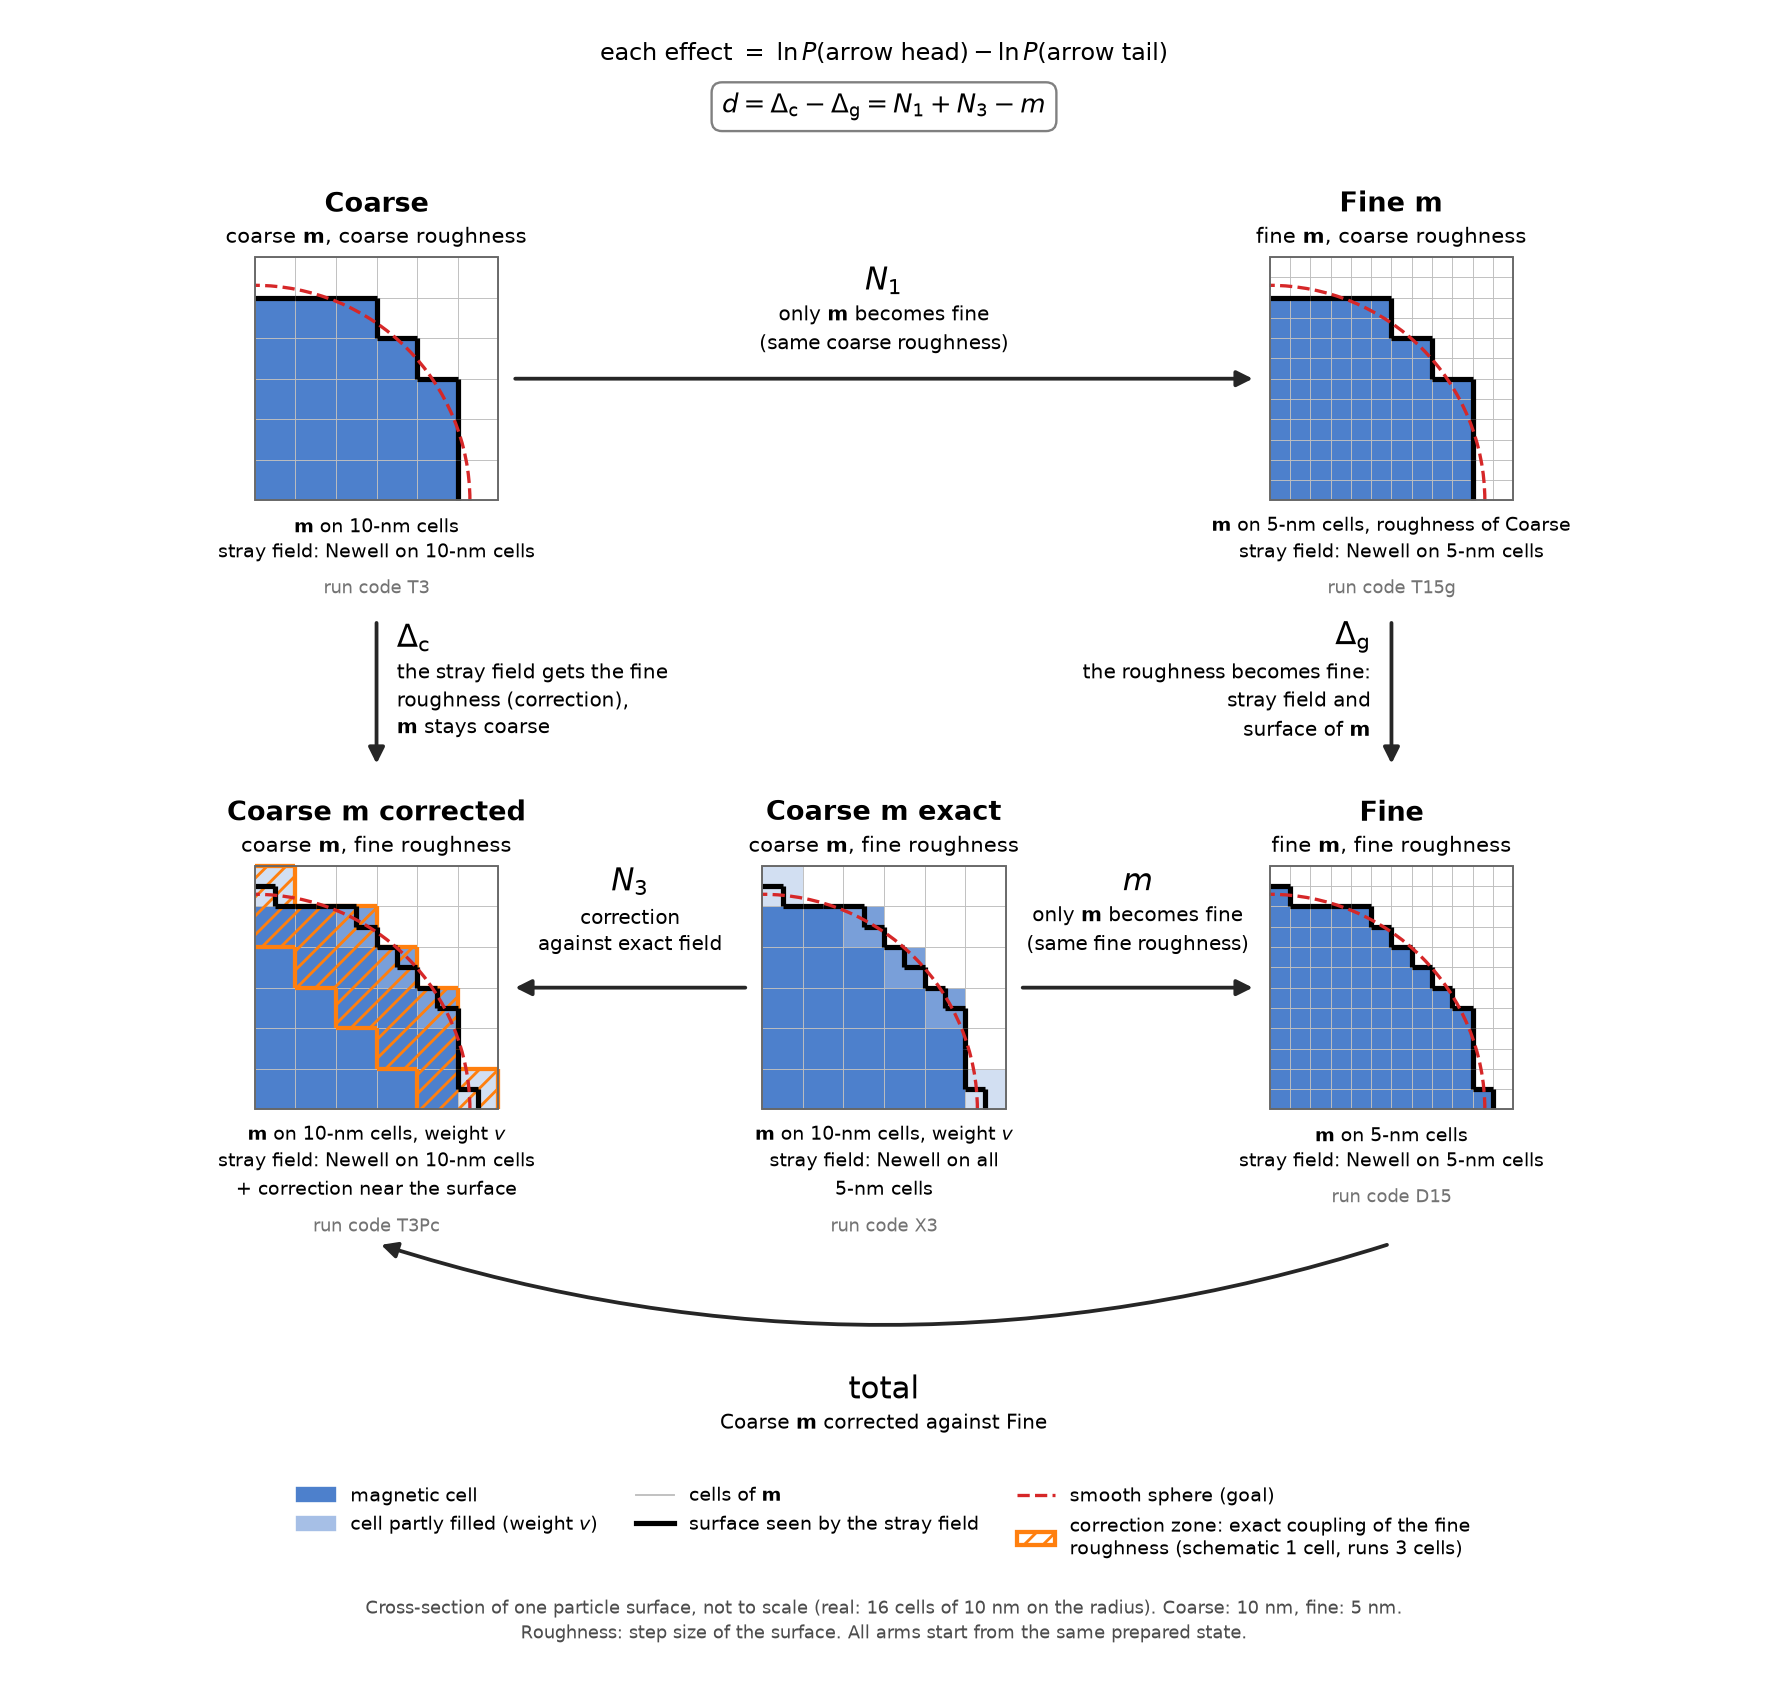
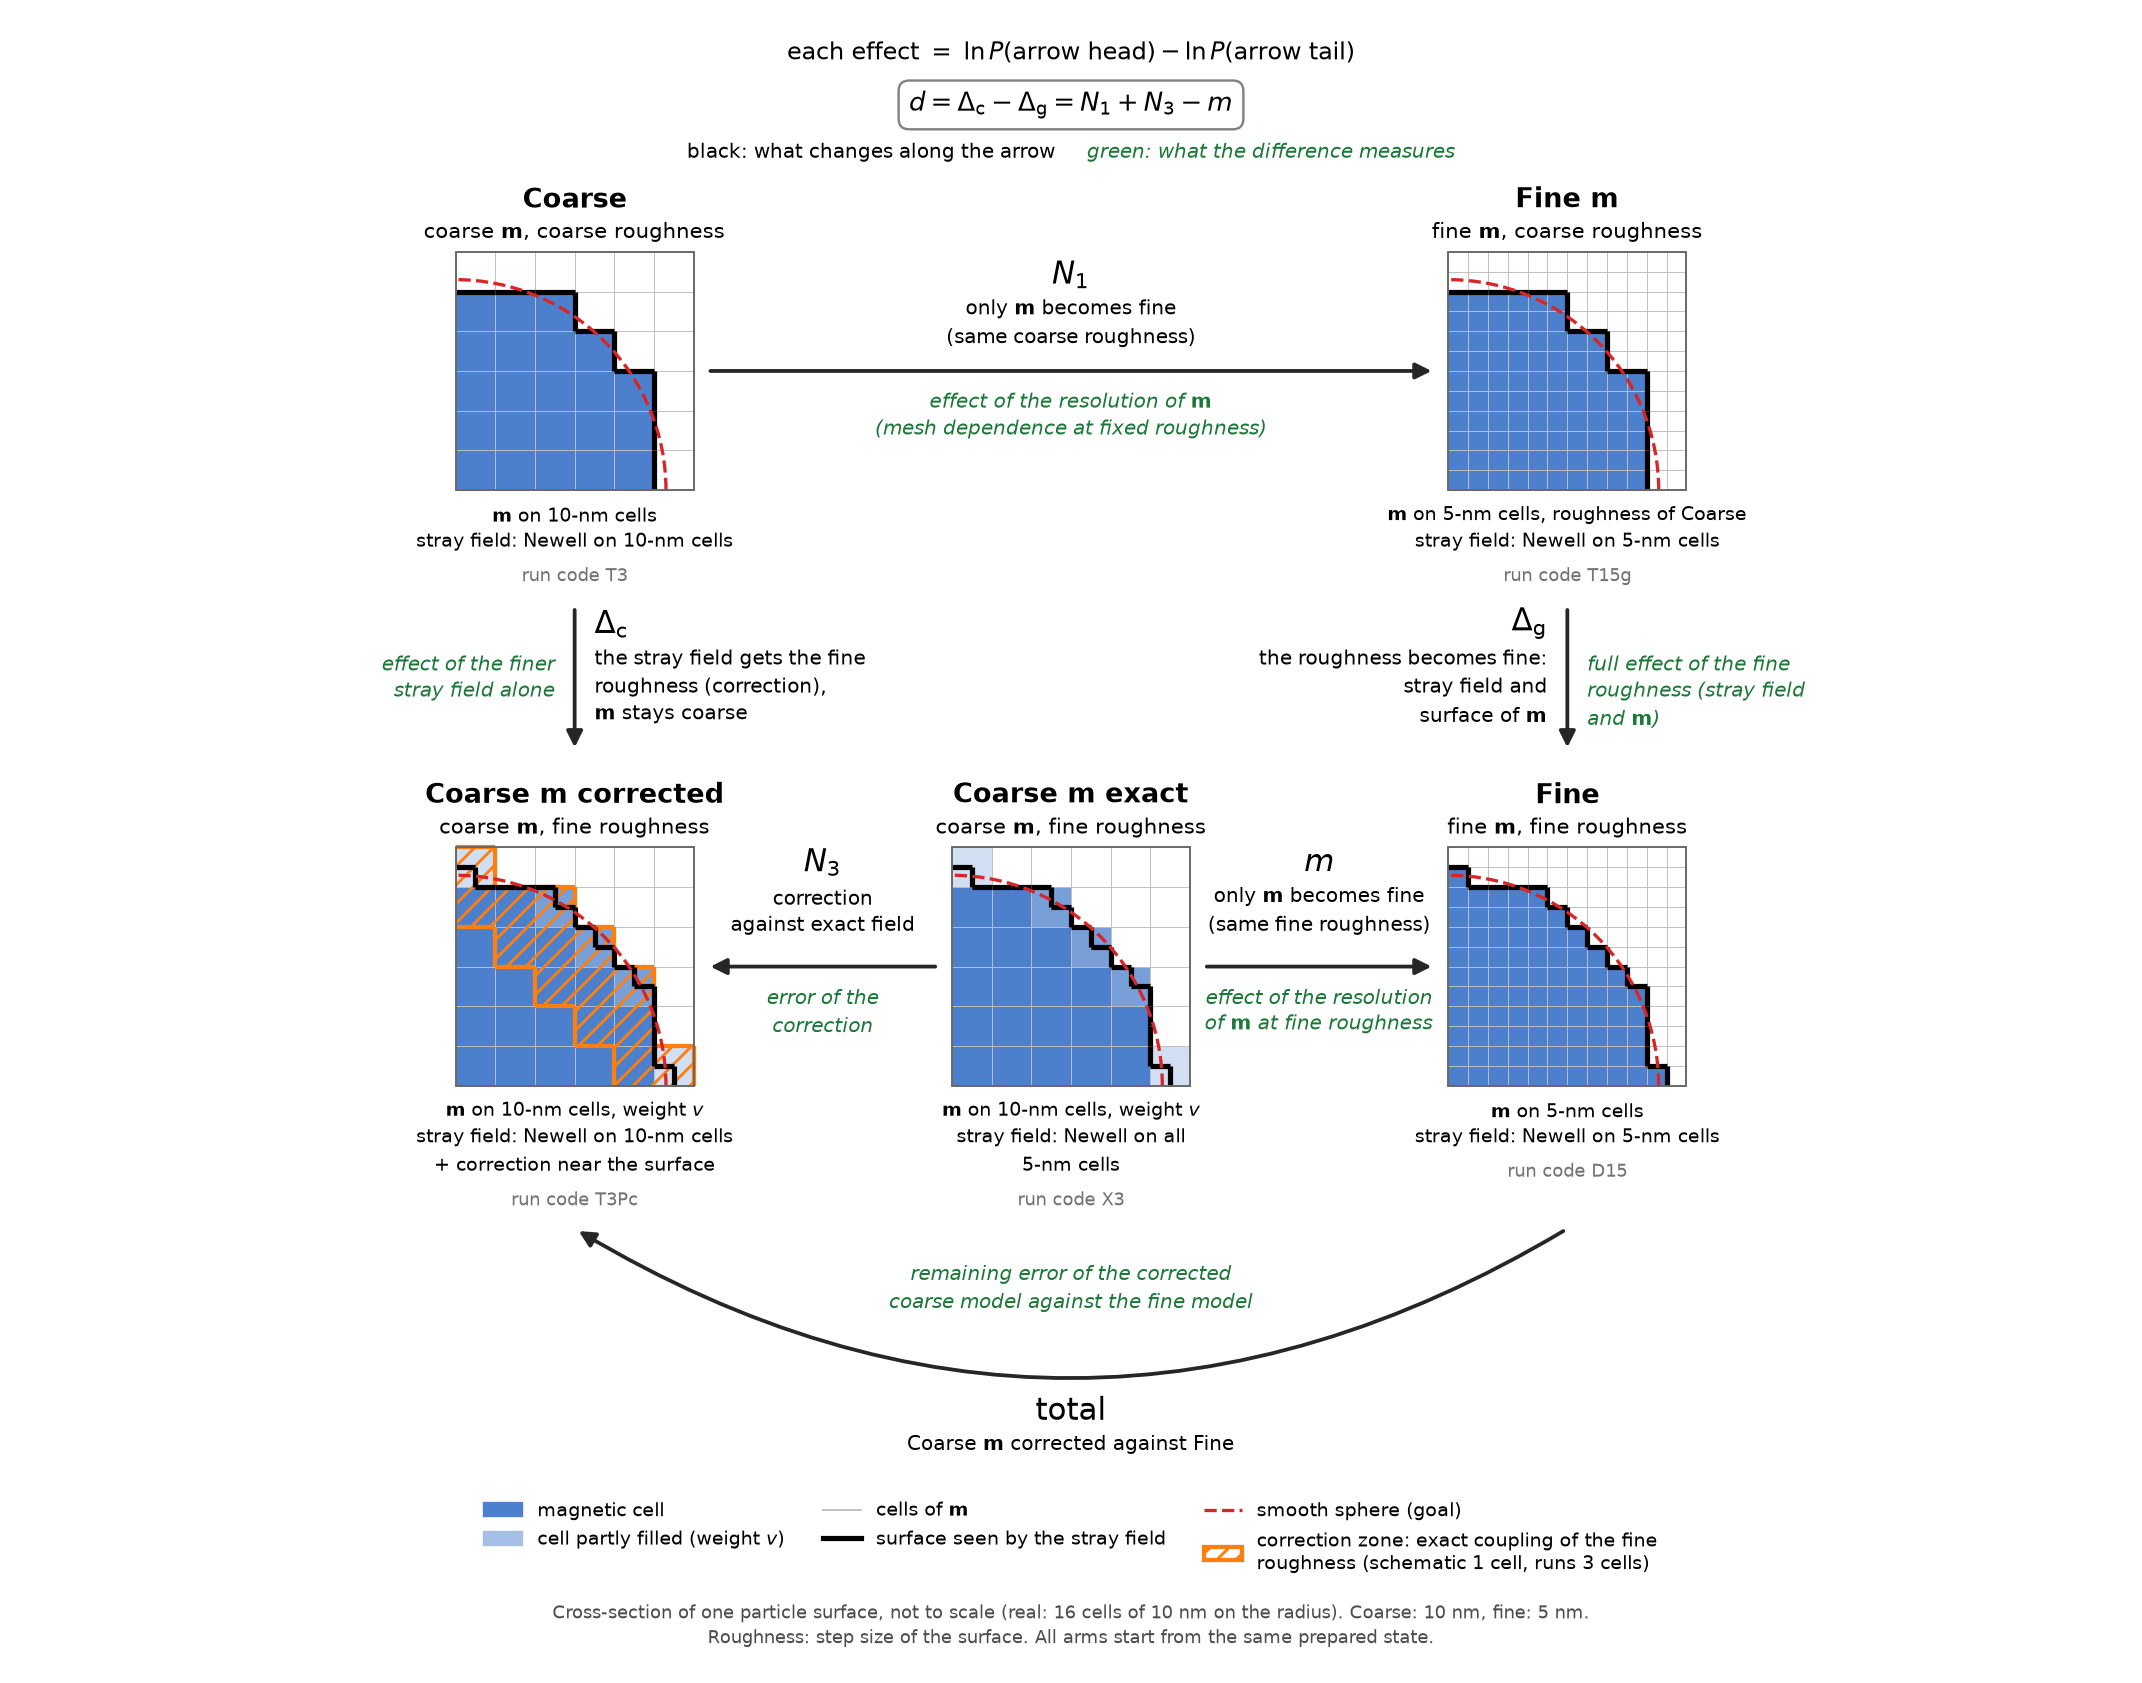
staircase: schematic, each arrow also tells what the difference measures (PROTOKOLL 3.28)

diff --git a/studies/staircase_correction/plot_scheme.py b/studies/staircase_correction/plot_scheme.py
@@ -25,6 +25,7 @@ R = 5.3          # sphere radius in cells of 10 nm (schematic)
 NC = 6           # cells of 10 nm on each side of a panel
 BLUE = np.array([0.30, 0.50, 0.80])
 ORANGE = "tab:orange"
+GREEN = "#1b7837"  # what an effect measures
 W = 1            # width of the correction zone in the schematic (runs: window p = 3 cells)
 M = r"$\mathbf{m}$"
 
@@ -95,19 +96,21 @@ def panel(ax, x0, y0, title, sub, text, code, m_h, fill, field_h, zone=False):
             fontsize=7.5, color="0.45")
 
 
-def arrow(ax, p, q, sym, label, lx, ly, ha="center", rad=0.0):
-    """Arrow from p to q; the effect symbol at (lx, ly), its meaning below it."""
+def arrow(ax, p, q, sym, label, lx, ly, meas, mx, my, ha="center", mha="center", rad=0.0):
+    """Arrow from p to q; the effect symbol at (lx, ly) with what changes below it; on the other side of the arrow
+    (mx, my) what the difference measures."""
     ax.add_patch(FancyArrowPatch(p, q, arrowstyle="-|>", mutation_scale=14, lw=1.6, color="0.15",
                                  connectionstyle="arc3,rad=%g" % rad, zorder=7))
     ax.text(lx, ly, sym, ha=ha, va="bottom", fontsize=13, zorder=8)
     ax.text(lx, ly - 0.1, label, ha=ha, va="top", fontsize=8.5, linespacing=1.4, zorder=8)
+    ax.text(mx, my, meas, ha=mha, va="top", fontsize=8.5, linespacing=1.4, color=GREEN, style="italic", zorder=8)
 
 
 def main():
     ap = argparse.ArgumentParser()
     ap.add_argument("--plot", required=True)
     a = ap.parse_args()
-    fig, ax = plt.subplots(figsize=(10.4, 9.9))
+    fig, ax = plt.subplots(figsize=(12.6, 9.9))
     X, Y = (0, 12.5, 25), (0, 15)                                # columns and rows of the panels
     xc = X[1] + NC / 2
     panel(ax, X[0], Y[1], "Coarse", "coarse " + M + ", coarse roughness",
@@ -124,19 +127,25 @@ def main():
           M + " on 5-nm cells\nstray field: Newell on 5-nm cells", "D15", 0.5, "voxel 0.5", 0.5)
 
     arrow(ax, (X[0] + 6.3, Y[1] + 3), (X[2] - 0.3, Y[1] + 3),
-          r"$N_1$", "only " + M + " becomes fine\n(same coarse roughness)", xc, Y[1] + 5.0)
+          r"$N_1$", "only " + M + " becomes fine\n(same coarse roughness)", xc, Y[1] + 5.0,
+          "effect of the resolution of " + M + "\n(mesh dependence at fixed roughness)", xc, Y[1] + 2.6)
     arrow(ax, (X[0] + 3, Y[1] - 2.9), (X[0] + 3, Y[0] + 8.4),
           r"$\Delta_\mathrm{c}$", "the stray field gets the fine\nroughness (correction),\n" + M + " stays coarse",
-          X[0] + 3.5, Y[0] + 11.2, ha="left")
+          X[0] + 3.5, Y[0] + 11.2, "effect of the finer\nstray field alone", X[0] + 2.5, Y[0] + 11.0,
+          ha="left", mha="right")
     arrow(ax, (X[2] + 3, Y[1] - 2.9), (X[2] + 3, Y[0] + 8.4),
           r"$\Delta_\mathrm{g}$", "the roughness becomes fine:\nstray field and\nsurface of " + M,
-          X[2] + 2.5, Y[0] + 11.2, ha="right")
+          X[2] + 2.5, Y[0] + 11.2, "full effect of the fine\nroughness (stray field\nand " + M + ")",
+          X[2] + 3.5, Y[0] + 11.0, ha="right", mha="left")
     arrow(ax, (X[1] - 0.3, Y[0] + 3), (X[0] + 6.3, Y[0] + 3),
-          r"$N_3$", "correction\nagainst exact field", (X[0] + 6 + X[1]) / 2, Y[0] + 5.2)
+          r"$N_3$", "correction\nagainst exact field", (X[0] + 6 + X[1]) / 2, Y[0] + 5.2,
+          "error of the\ncorrection", (X[0] + 6 + X[1]) / 2, Y[0] + 2.6)
     arrow(ax, (X[1] + 6.3, Y[0] + 3), (X[2] - 0.3, Y[0] + 3),
-          r"$m$", "only " + M + " becomes fine\n(same fine roughness)", (X[1] + 6 + X[2]) / 2, Y[0] + 5.2)
-    arrow(ax, (X[2] + 3, Y[0] - 3.3), (X[0] + 3, Y[0] - 3.3),
-          "total", "Coarse " + M + " corrected against Fine", xc, Y[0] - 7.3, rad=-0.16)
+          r"$m$", "only " + M + " becomes fine\n(same fine roughness)", (X[1] + 6 + X[2]) / 2, Y[0] + 5.2,
+          "effect of the resolution\nof " + M + " at fine roughness", (X[1] + 6 + X[2]) / 2, Y[0] + 2.6)
+    arrow(ax, (X[2] + 3, Y[0] - 3.6), (X[0] + 3, Y[0] - 3.6),
+          "total", "Coarse " + M + " corrected against Fine", xc, Y[0] - 8.6,
+          "remaining error of the corrected\ncoarse model against the fine model", xc, Y[0] - 4.4, rad=-0.3)
 
     ax.text(xc, Y[1] + 11.0, r"each effect $=\ \ln P(\mathrm{arrow\ head}) - \ln P(\mathrm{arrow\ tail})$",
             ha="center", va="center", fontsize=10)
@@ -149,13 +158,16 @@ def main():
                        Line2D([], [], color="tab:red", lw=1.4, ls="--", label="smooth sphere (goal)"),
                        Patch(facecolor="none", edgecolor=ORANGE, hatch="///", lw=1.8,
                              label="correction zone: exact coupling of the fine\nroughness (schematic 1 cell, runs 3 cells)")],
-              loc="center", bbox_to_anchor=(xc, Y[0] - 10.2), bbox_transform=ax.transData, ncol=3, fontsize=8,
+              loc="center", bbox_to_anchor=(xc, Y[0] - 11.4), bbox_transform=ax.transData, ncol=3, fontsize=8,
               frameon=False)
-    ax.text(xc, Y[0] - 12.6, "Cross-section of one particle surface, not to scale (real: 16 cells of 10 nm on the "
+    ax.text(xc, Y[0] - 13.6, "Cross-section of one particle surface, not to scale (real: 16 cells of 10 nm on the "
             "radius). Coarse: 10 nm, fine: 5 nm.\nRoughness: step size of the surface. All arms start from the same "
             "prepared state.", ha="center", va="center", fontsize=7.5, color="0.3", linespacing=1.4)
-    ax.set_xlim(-1.5, X[2] + NC + 1.5)
-    ax.set_ylim(Y[0] - 13.5, Y[1] + 11.7)
+    ax.text(xc - 0.4, Y[1] + 8.5, "black: what changes along the arrow", ha="right", va="center", fontsize=8.5)
+    ax.text(xc + 0.4, Y[1] + 8.5, "green: what the difference measures", ha="left", va="center", fontsize=8.5,
+            color=GREEN, style="italic")
+    ax.set_xlim(-5.0, X[2] + NC + 5.0)
+    ax.set_ylim(Y[0] - 14.4, Y[1] + 11.7)
     ax.set_aspect("equal")
     ax.axis("off")
     fig.tight_layout()

diff --git a/studies/staircase_correction/PROTOKOLL.md b/studies/staircase_correction/PROTOKOLL.md
@@ -1488,7 +1488,11 @@ the stray field. Seed 952 (m = −0.61, 3.23 finding 2: same state, different re
 
 **Schematic of the arms and effects** (Chris asked; plot_scheme.py, results/scheme_B.png): the five arms as cross-sections of
 one particle surface (cells of m, magnetic cells with the weight v, surface seen by the stray field, smooth sphere),
-the effects as arrows (ln P of the arrow head minus ln P of the arrow tail), and the identity d = N1 + N3 − m.
+the effects as arrows (ln P of the arrow head minus ln P of the arrow tail), and the identity d = N1 + N3 − m. Each arrow gives what changes (black) and what the difference measures
+(green): N1 effect of the resolution of m at fixed roughness; Δ_c effect of the finer stray field alone; Δ_g full
+effect of the fine roughness (stray field and m); N3 error of the correction; m effect of the resolution of m at
+fine roughness; total remaining error of the corrected coarse model against the fine model. The full difference
+Coarse → Fine is N1 + Δ_g.
 
 **Decision (Chris, 2026-10-21, about 09:00 UTC): names of the arms.** In figures and new text the arms have names that
 tell what is coarse (10 nm) and what is fine (5 nm). "Roughness" (step size of the voxelised surface) replaces
